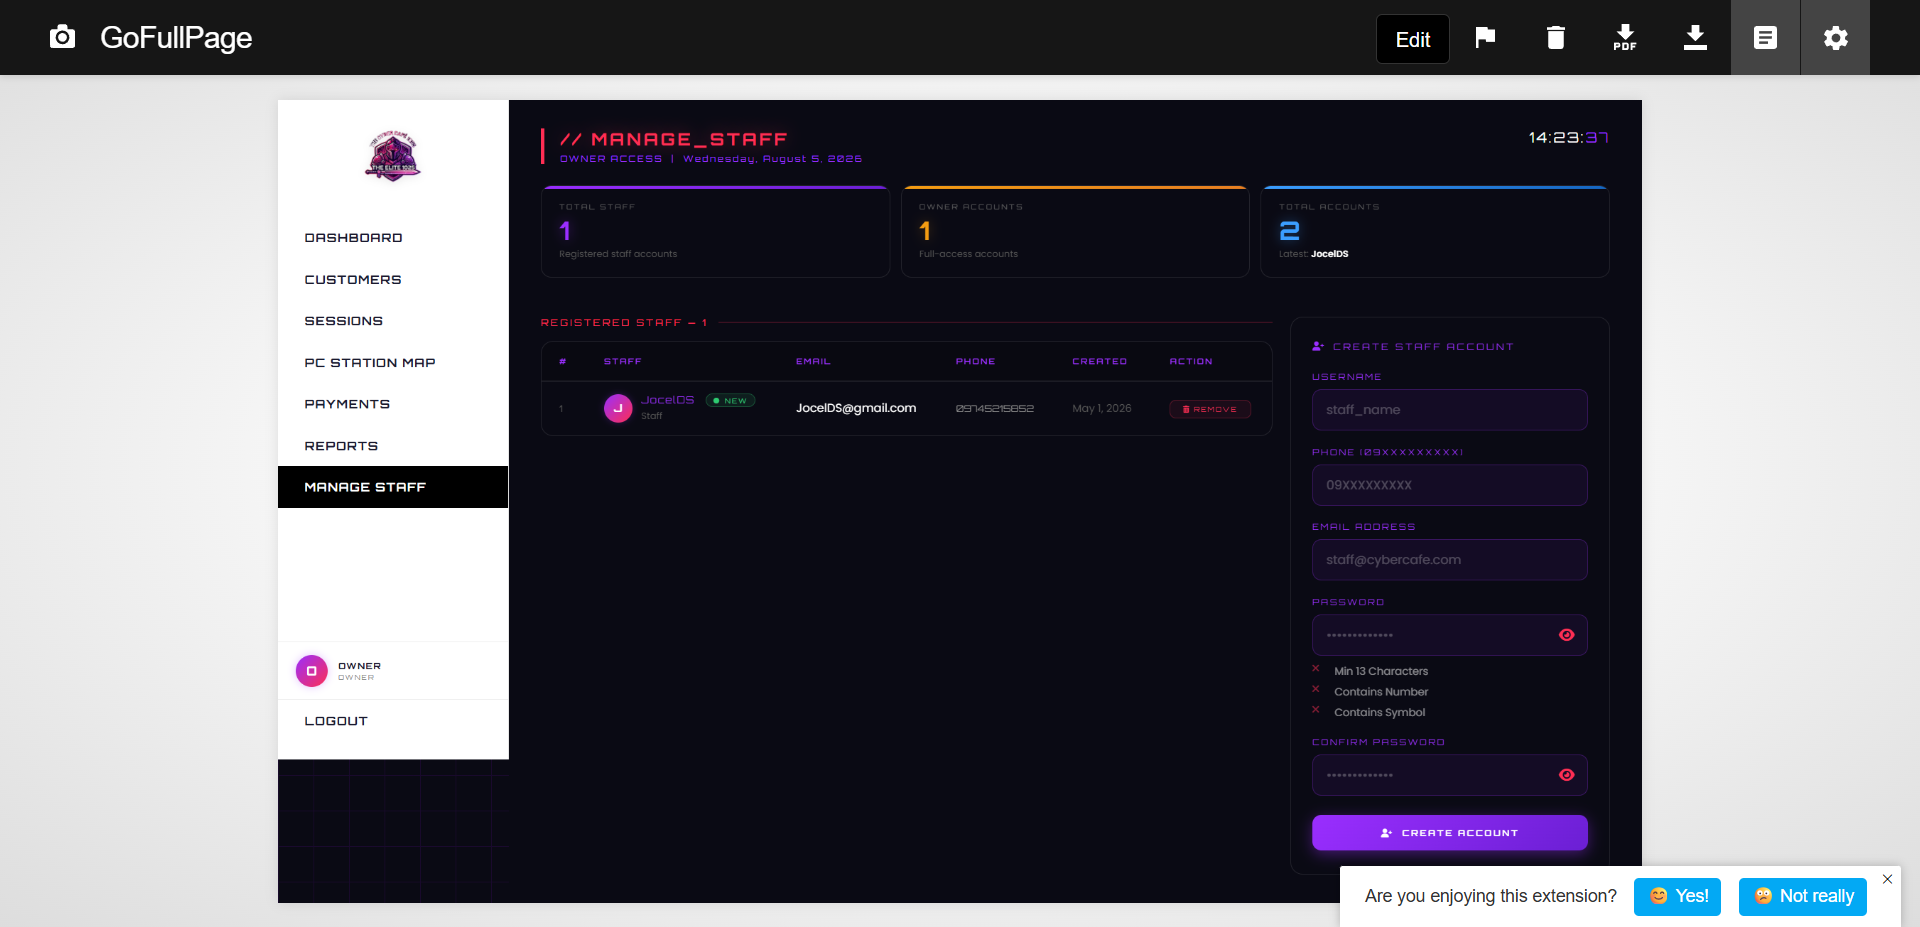
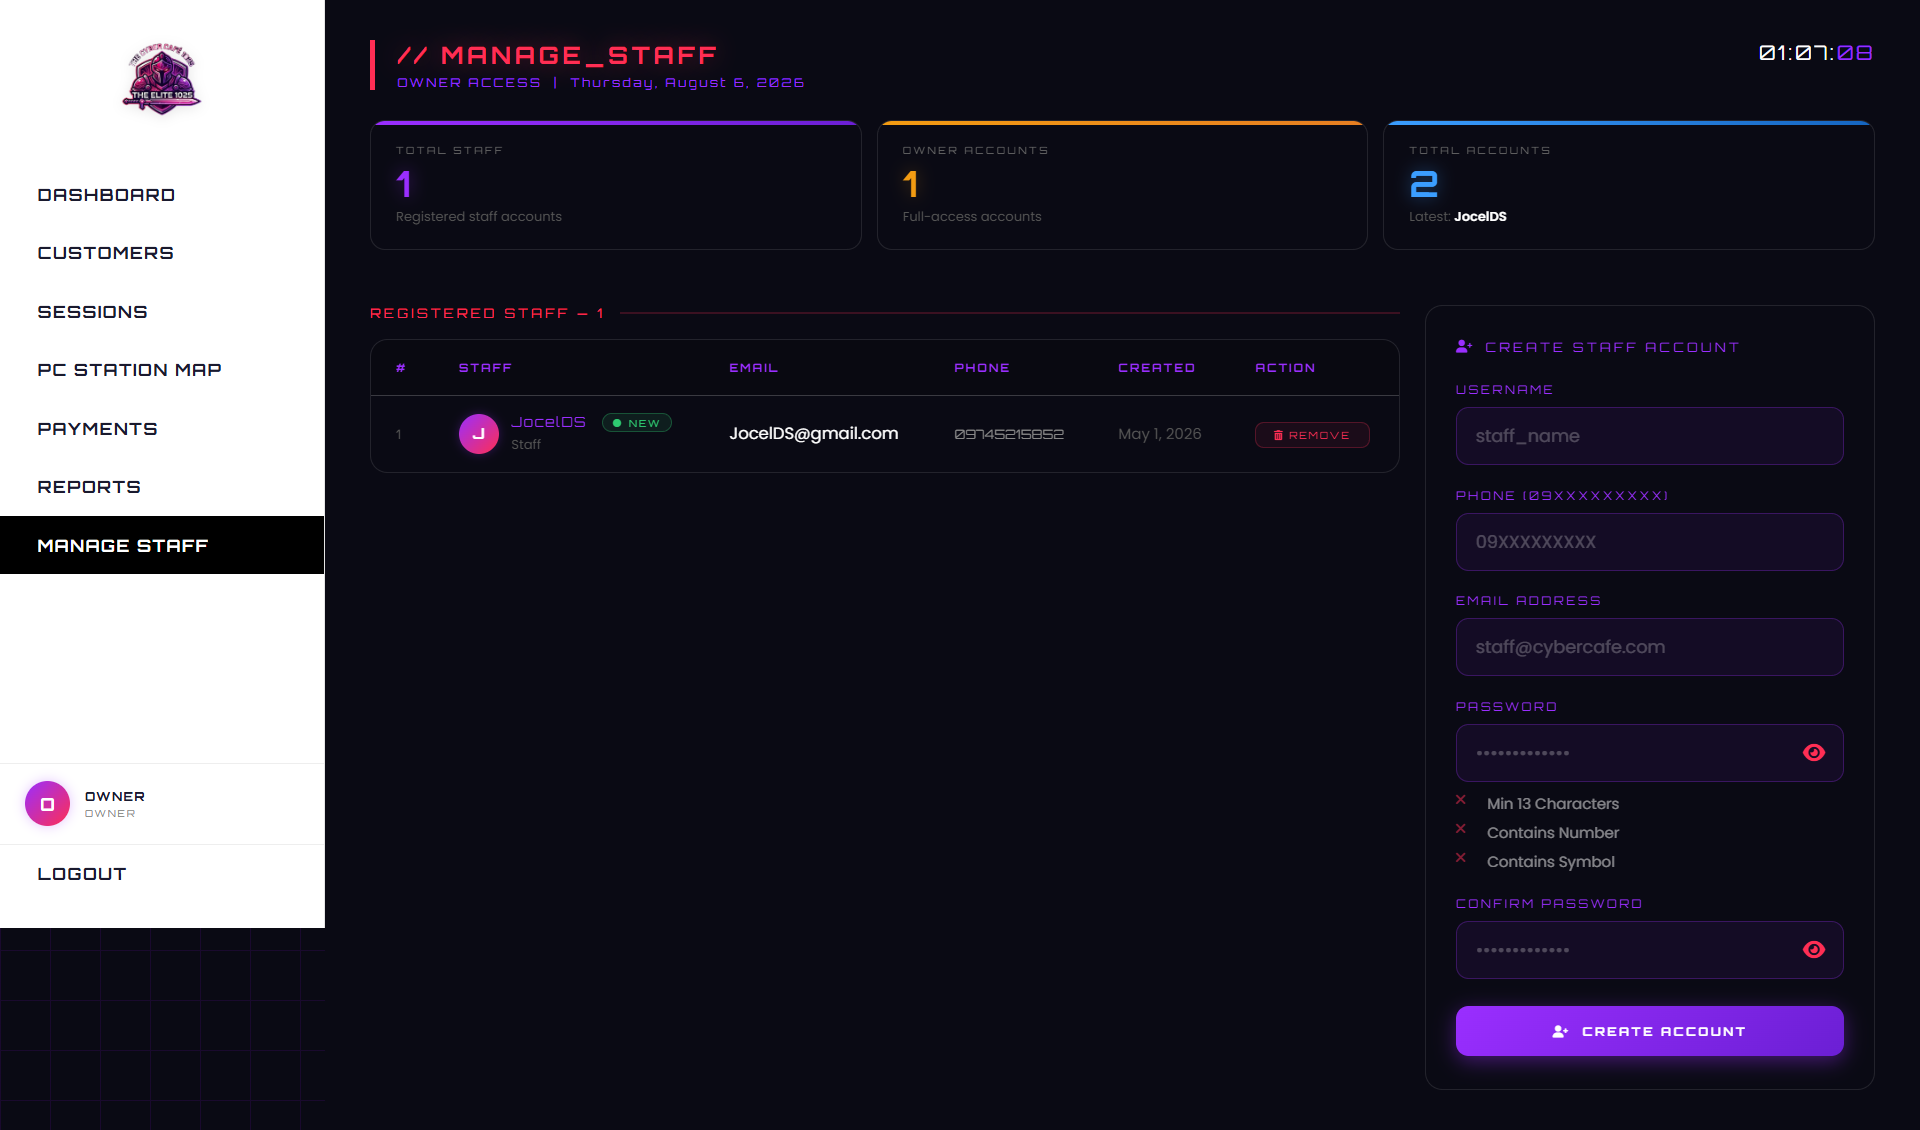
Refactor Projects component to use standalone Carousel component

diff --git a/src/sections/Projects.jsx b/src/sections/Projects.jsx
@@ -1,3 +1,6 @@
+import { ArrowUpRight } from "lucide-react";
+import { FaGithub } from "react-icons/fa";
+import { Carousel } from "../components/Carousel"; // Adjust path if needed
 
 const projects = [
   {
@@ -15,6 +18,7 @@ const projects = [
     ],
     tags: ["Flutter", "Firebase", "Dart"],
     github: "https://github.com/JocelDS/TriConnect",
+    isMobile: true,
   },
 
   {
@@ -22,14 +26,14 @@ const projects = [
     description: "Cyber Cafe Management System.",
     images: [
       "/projects/TheCyberCafe1025/thecybercafe1025-login-page.png",
-      "/projects/TheCyberCafe1025/thecybercafe1025-admin-dashboardpage.png",
-      "/projects/TheCyberCafe1025/thecybercafe1025-admin-customerpage.png",
-      "/projects/TheCyberCafe1025/thecybercafe1025-admin-manage-staffpage.png",
-      "/projects/TheCyberCafe1025/thecybercafe1025-admin-pc-stationpage.png",
-      "/projects/TheCyberCafe1025/thecybercafe1025-admin-paymentspage.png",
-      "/projects/TheCyberCafe1025/thecybercafe1025-admin-reportspage.png",
-      "/projects/TheCyberCafe1025/thecybercafe1025-admin-sessions-trackingpage.png",
-      "/projects/TheCyberCafe1025/thecybercafe1025-admin-my-profilepage.png",
+      "/projects/TheCyberCafe1025/thecybercafe1025-admin-dashboard.png",
+      "/projects/TheCyberCafe1025/thecybercafe1025-admin-customers-logs.png",
+      "/projects/TheCyberCafe1025/thecybercafe1025-admin-manage-staff.png",
+      "/projects/TheCyberCafe1025/thecybercafe1025-admin-pc-station-map.png",
+      "/projects/TheCyberCafe1025/thecybercafe1025-admin-payments.png",
+      "/projects/TheCyberCafe1025/thecybercafe1025-admin-reports.png",
+      "/projects/TheCyberCafe1025/thecybercafe1025-admin-sessions-terminal.png",
+      "/projects/TheCyberCafe1025/thecybercafe1025-admin-my-profile.png",
     ],
     tags: ["PHP", "MySQL", "JavaScript"],
     github: "https://github.com/JocelDS/thecybercafe1025",
@@ -110,17 +114,18 @@ const projects = [
 export const Projects = () => {
   return (
     <section id="projects" className="py-32 relative overflow-hidden">
-      {/* bg glows */}
+      {/* Background Glows */}
       <div className="absolute top-1/4 right-0 w-96 h-96 bg-primary/5 rounded-full blur-3xl" />
       <div className="absolute bottom-1/4 left-0 w-64 h-64 bg-highlight/5 rounded-full blur-3xl" />
+
       <div className="container mx-auto px-6 relative z-10">
-        {/* section header */}
+        {/* Section Header */}
         <div className="text-center mx-auto max-w-3xl mb-16">
-          <span className="text-secondary-foreground text-sm font-medium tracking-wider uppercase animaite-fade-in">
+          <span className="text-secondary-foreground text-sm font-medium tracking-wider uppercase animate-fade-in">
             Featured Work
           </span>
-          <h2 className="text-4xl md:text-5x font-bold mt-4 mb-6 animate-fade-in animation-delay-100 text-secondary-foreground">
-            Project that
+          <h2 className="text-4xl md:text-5xl font-bold mt-4 mb-6 animate-fade-in animation-delay-100 text-secondary-foreground">
+            Projects that
             <span className="font-serif italic font-normal text-white">
               {" "}
               make an impact.
@@ -132,17 +137,65 @@ export const Projects = () => {
             that solve real-world problems.
           </p>
         </div>
-        {/* project grid */}
-        <div className="grig md:grid-cols-2 gap-8">
-          {projects.map((projects, idx) => (
-            <div>
-              {/* image */}
-              <div>
-                <img
-                  src={projects.images}
-                  alt="{projects.title}"
-                  className="w-full h-full object-cover transition"
-                />
+
+        {/* Project Grid */}
+        <div className="grid md:grid-cols-2 gap-8">
+          {projects.map((project, idx) => (
+            <div
+              key={project.title}
+              id={`project-${idx}`}
+              className="group glass rounded-2xl overflow-hidden animate-fade-in md:row-span-1 border border-white/5 bg-slate-900/40 flex flex-col justify-between"
+              style={{ animationDelay: `${(idx + 1) * 100}ms` }}
+            >
+              {/* Image Carousel */}
+              <Carousel
+                images={project.images}
+                title={project.title}
+                isMobile={project.isMobile}
+              />
+
+              {/* Content Details */}
+              <div className="p-6 space-y-4">
+                <div className="flex items-start justify-between">
+                  <h3 className="text-xl font-semibold group-hover:text-primary transition-colors">
+                    {project.title}
+                  </h3>
+                  <a
+                    href={project.github}
+                    target="_blank"
+                    rel="noopener noreferrer"
+                    className="p-1 hover:text-primary transition-colors"
+                  >
+                    <ArrowUpRight className="w-5 h-5 text-muted-foreground hover:text-primary hover:translate-x-0.5 hover:-translate-y-0.5 transition-all" />
+                  </a>
+                </div>
+
+                <p className="text-muted-foreground text-sm">
+                  {project.description}
+                </p>
+
+                <div className="flex flex-wrap items-center justify-between gap-4 pt-2">
+                  <div className="flex flex-wrap gap-2">
+                    {project.tags.map((tag) => (
+                      <span
+                        key={tag}
+                        className="px-4 py-1.5 rounded-full bg-surface text-xs font-medium border border-border/50 text-muted-foreground hover:border-primary/50 hover:text-primary transition-all duration-300"
+                      >
+                        {tag}
+                      </span>
+                    ))}
+                  </div>
+
+                  <a
+                    href={project.github}
+                    target="_blank"
+                    rel="noopener noreferrer"
+                    className="flex items-center gap-2 text-xs text-muted-foreground hover:text-white transition-colors"
+                  >
+                    <FaGithub className="w-4 h-4" />
+                    <span>Repository</span>
+                  </a>
+                </div>
               </div>
             </div>
           ))}

diff --git a/src/components/Carousel.jsx b/src/components/Carousel.jsx
@@ -1,0 +1,97 @@
+import { useState, useEffect } from "react";
+import { ChevronLeft, ChevronRight } from "lucide-react";
+
+export const Carousel = ({ images, title, isMobile }) => {
+  const [currentIndex, setCurrentIndex] = useState(0);
+  const [isPaused, setIsPaused] = useState(false);
+
+  const prevImage = (e) => {
+    if (e) {
+      e.preventDefault();
+      e.stopPropagation();
+    }
+    setCurrentIndex((prev) => (prev === 0 ? images.length - 1 : prev - 1));
+  };
+
+  const nextImage = (e) => {
+    if (e) {
+      e.preventDefault();
+      e.stopPropagation();
+    }
+    setCurrentIndex((prev) => (prev === images.length - 1 ? 0 : prev + 1));
+  };
+
+  // Auto-play timer setup (3 seconds)
+  useEffect(() => {
+    if (isPaused || images.length <= 1) return;
+
+    const timer = setInterval(() => {
+      setCurrentIndex((prev) => (prev === images.length - 1 ? 0 : prev + 1));
+    }, 3000);
+
+    return () => clearInterval(timer);
+  }, [isPaused, images.length]);
+
+  return (
+    <div
+      onMouseEnter={() => setIsPaused(true)}
+      onMouseLeave={() => setIsPaused(false)}
+      className="relative overflow-hidden aspect-video bg-slate-950/60 flex items-center justify-center p-4 group/carousel"
+    >
+      {/* Active Image */}
+      <img
+        src={images[currentIndex]}
+        alt={`${title} screenshot ${currentIndex + 1}`}
+        className={
+          isMobile
+            ? "h-full max-w-none w-auto object-contain rounded-lg shadow-lg transition-all duration-500"
+            : "w-full h-full object-cover object-top transition-all duration-500"
+        }
+      />
+
+      {/* Navigation Controls */}
+      {images.length > 1 && (
+        <>
+          <button
+            type="button"
+            onClick={prevImage}
+            className="absolute left-3 top-1/2 -translate-y-1/2 p-2 rounded-full bg-slate-900/80 text-white opacity-0 group-hover/carousel:opacity-100 hover:bg-primary transition-all z-20"
+            aria-label="Previous image"
+          >
+            <ChevronLeft className="w-4 h-4" />
+          </button>
+
+          <button
+            type="button"
+            onClick={nextImage}
+            className="absolute right-3 top-1/2 -translate-y-1/2 p-2 rounded-full bg-slate-900/80 text-white opacity-0 group-hover/carousel:opacity-100 hover:bg-primary transition-all z-20"
+            aria-label="Next image"
+          >
+            <ChevronRight className="w-4 h-4" />
+          </button>
+
+          {/* Dots Indicator */}
+          <div className="absolute bottom-3 left-1/2 -translate-x-1/2 flex items-center gap-1.5 z-20 px-3 py-1.5 rounded-full bg-slate-950/60 backdrop-blur-md">
+            {images.map((_, dotIdx) => (
+              <button
+                key={dotIdx}
+                type="button"
+                onClick={(e) => {
+                  e.preventDefault();
+                  e.stopPropagation();
+                  setCurrentIndex(dotIdx);
+                }}
+                className={`h-1.5 rounded-full transition-all duration-300 ${
+                  currentIndex === dotIdx
+                    ? "w-5 bg-white"
+                    : "w-1.5 bg-white/40 hover:bg-white/70"
+                }`}
+                aria-label={`Go to slide ${dotIdx + 1}`}
+              />
+            ))}
+          </div>
+        </>
+      )}
+    </div>
+  );
+};
